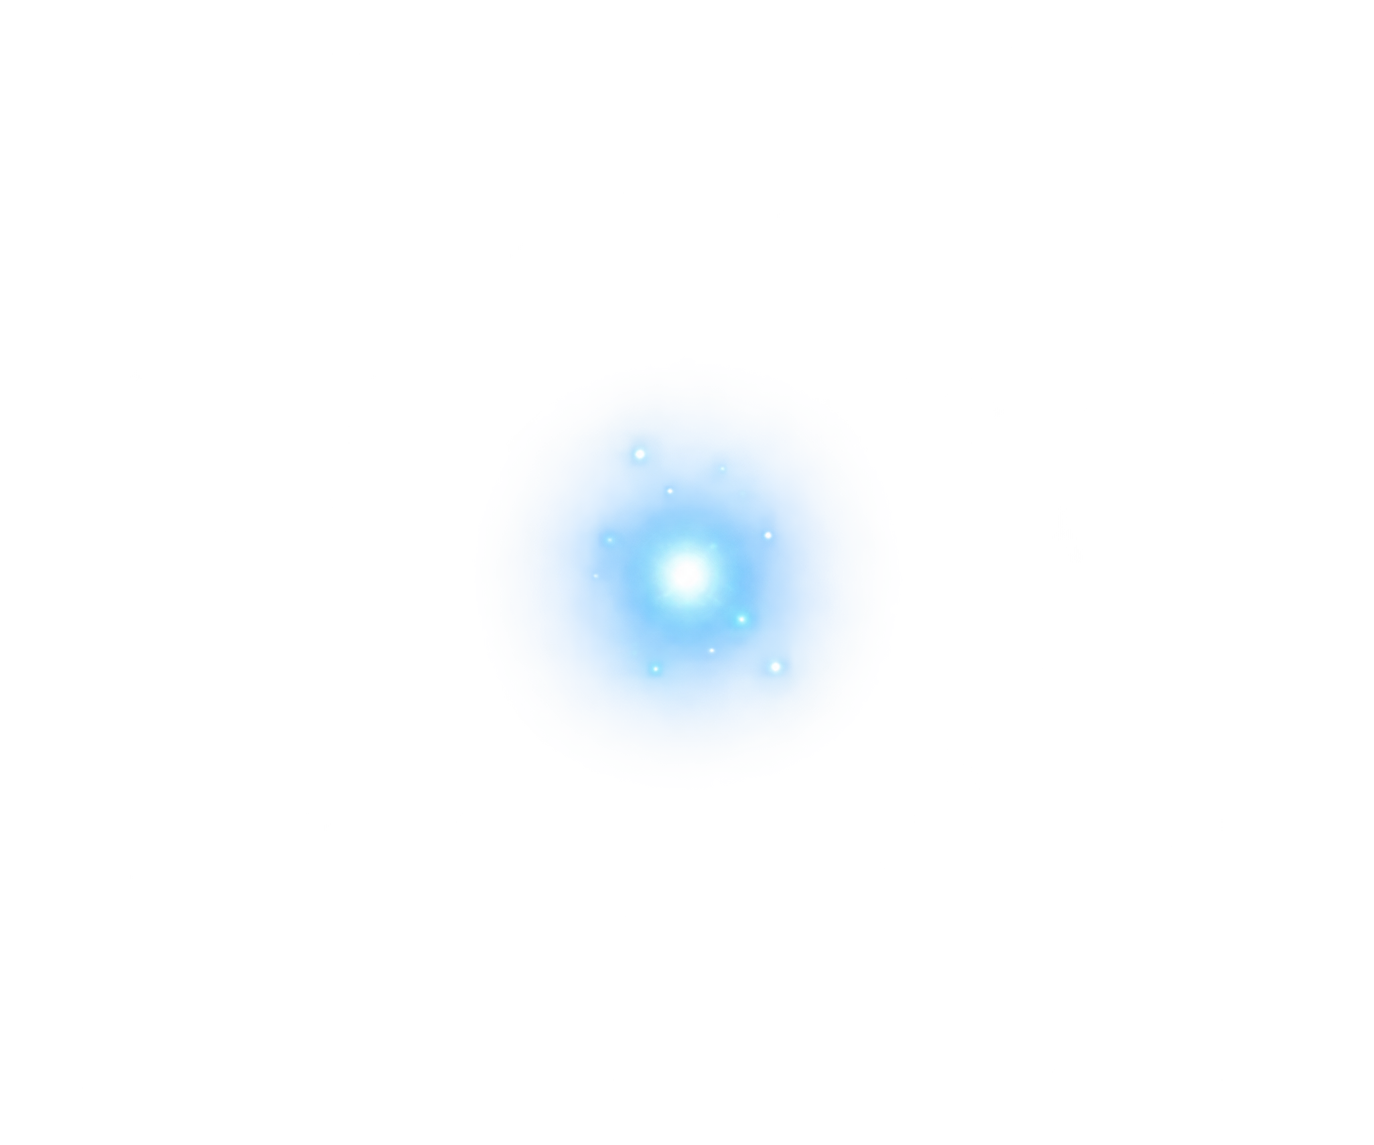
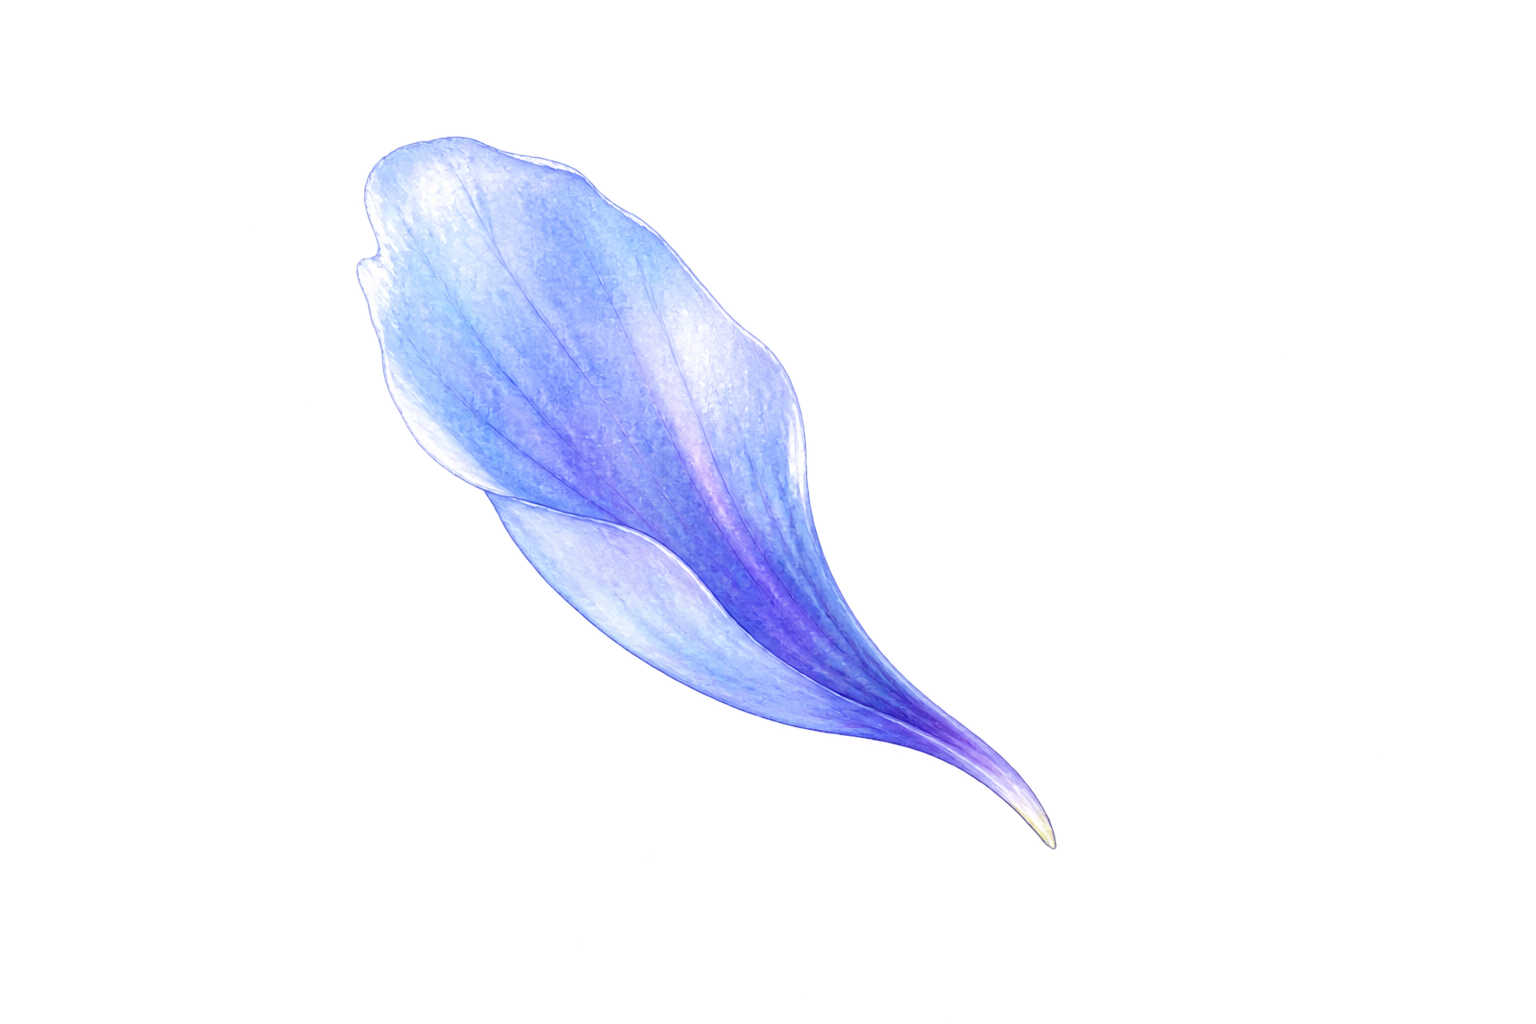
feat: add drifting blue-moon petals

Changed region(s): [[0.214, 0.125, 0.7031, 0.8438]]

diff --git a/src/workers/sakura.worker.ts b/src/workers/sakura.worker.ts
@@ -63,8 +63,12 @@ function getRandom(option: string, cfg: SakuraConfig): unknown {
 				Math.random() * (cfg.speed.vertical.max - cfg.speed.vertical.min);
 			return (_x: number, y: number) => y + random;
 		}
-		case "fnr":
-			return (r: number) => r + cfg.speed.rotation;
+		case "fnr": {
+			const random =
+				cfg.speed.rotation.min +
+				Math.random() * (cfg.speed.rotation.max - cfg.speed.rotation.min);
+			return (r: number) => r + random;
+		}
 		case "fna":
 			return (alpha: number) => alpha - cfg.speed.fadeSpeed * 0.01;
 		default:
@@ -99,6 +103,9 @@ class Sakura {
 	trailFrame = 0;
 	twinklePhase = Math.random() * Math.PI * 2;
 	twinkleSpeed: number;
+	swayPhase = Math.random() * Math.PI * 2;
+	swaySpeed: number;
+	swayAmplitude: number;
 
 	constructor(
 		x: number,
@@ -125,6 +132,12 @@ class Sakura {
 		this.twinkleSpeed =
 			cfg.twinkle.speed.min +
 			Math.random() * (cfg.twinkle.speed.max - cfg.twinkle.speed.min);
+		this.swaySpeed =
+			cfg.sway.speed.min +
+			Math.random() * (cfg.sway.speed.max - cfg.sway.speed.min);
+		this.swayAmplitude =
+			cfg.sway.amplitude.min +
+			Math.random() * (cfg.sway.amplitude.max - cfg.sway.amplitude.min);
 	}
 
 	draw(cxt: OffscreenCanvasRenderingContext2D) {
@@ -163,39 +176,40 @@ class Sakura {
 		scale: number,
 		alpha: number,
 	) {
-		const sourceSize = Math.min(this.img.width, this.img.height);
-		if (sourceSize <= 0 || alpha <= 0) return;
-		const sourceX = (this.img.width - sourceSize) / 2;
-		const sourceY = (this.img.height - sourceSize) / 2;
-		const renderSize = 40 * this.s * scale;
+		if (this.img.width <= 0 || this.img.height <= 0 || alpha <= 0) return;
+		const renderWidth = 64 * this.s * scale;
+		const renderHeight = renderWidth * (this.img.height / this.img.width);
 
 		cxt.save();
 		cxt.globalAlpha = alpha;
+		cxt.translate(x, y);
+		cxt.rotate(this.r);
 		cxt.drawImage(
 			this.img,
-			sourceX,
-			sourceY,
-			sourceSize,
-			sourceSize,
-			x - renderSize / 2,
-			y - renderSize / 2,
-			renderSize,
-			renderSize,
+			-renderWidth / 2,
+			-renderHeight / 2,
+			renderWidth,
+			renderHeight,
 		);
 		cxt.restore();
 	}
 
 	update() {
 		this.captureTrail();
-		this.x = this.fn.x(this.x, this.y);
+		this.swayPhase += this.swaySpeed;
+		const swayOffset = this.config.sway.enable
+			? Math.sin(this.swayPhase) * this.swayAmplitude
+			: 0;
+		this.x = this.fn.x(this.x, this.y) + swayOffset;
 		// 修复原实现笔误:第二参数应为 this.x(原 fuwari 写法)
 		this.y = this.fn.y(this.x, this.y);
+		this.r = this.fn.r(this.r);
 		this.a = this.fn.a(this.a);
 		this.twinklePhase += this.twinkleSpeed;
 		// 越界则重新调整位置
 		if (
-			this.x > windowWidth ||
-			this.x < 0 ||
+			this.x > windowWidth + 80 ||
+			this.x < -80 ||
 			this.y > windowHeight ||
 			this.y < 0 ||
 			this.a <= 0
@@ -224,19 +238,12 @@ class Sakura {
 		this.trail.length = 0;
 		this.trailFrame = 0;
 		this.twinklePhase = Math.random() * Math.PI * 2;
-		if (Math.random() > 0.4) {
-			this.x = getRandom("x", this.config);
-			this.y = 0;
-			this.s = getRandom("s", this.config);
-			this.r = getRandom("r", this.config);
-			this.a = getRandom("a", this.config);
-		} else {
-			this.x = windowWidth;
-			this.y = getRandom("y", this.config);
-			this.s = getRandom("s", this.config);
-			this.r = getRandom("r", this.config);
-			this.a = getRandom("a", this.config);
-		}
+		this.swayPhase = Math.random() * Math.PI * 2;
+		this.s = getRandom("s", this.config);
+		this.x = getRandom("x", this.config);
+		this.y = -64 * this.s;
+		this.r = getRandom("r", this.config);
+		this.a = getRandom("a", this.config);
 	}
 }
 

diff --git a/src/config/effectsConfig.ts b/src/config/effectsConfig.ts
@@ -9,26 +9,26 @@ export const sakuraConfig: SakuraConfig = {
 	// 是否启用樱花特效
 	enable: true,
 
-	// 微光数量
-	sakuraNum: 200,
+	// 苍月草花瓣数量
+	sakuraNum: 26,
 
 	// 樱花越界限制次数，-1为无限循环
 	limitTimes: -1,
 
 	// 樱花尺寸
 	size: {
-		// 微光最小尺寸倍数
-		min: 0.5,
-		// 微光最大尺寸倍数
-		max: 1.1,
+		// 花瓣最小尺寸倍数
+		min: 0.55,
+		// 花瓣最大尺寸倍数
+		max: 1,
 	},
 
 	// 樱花不透明度
 	opacity: {
-		// 微光最小不透明度
-		min: 0.22,
-		// 微光最大不透明度
-		max: 0.6,
+		// 花瓣最小不透明度
+		min: 0.42,
+		// 花瓣最大不透明度
+		max: 0.72,
 	},
 
 	// 樱花移动速度
@@ -36,26 +36,42 @@ export const sakuraConfig: SakuraConfig = {
 		// 水平移动
 		horizontal: {
 			// 水平移动速度最小值
-			min: -0.2,
+			min: -0.18,
 			// 水平移动速度最大值
-			max: -0.01,
+			max: 0.18,
 		},
 		// 垂直移动
 		vertical: {
 			// 垂直移动速度最小值
-			min: -0.2,
+			min: 0.28,
 			// 垂直移动速度最大值
-			max: -0.01,
+			max: 0.62,
 		},
 		// 旋转速度
-		rotation: 0,
+		rotation: {
+			min: -0.008,
+			max: 0.008,
+		},
 		// 消失速度，不应大于最小不透明度
-		fadeSpeed: 0.008,
+		fadeSpeed: 0,
+	},
+
+	// 为每片花瓣分配独立相位，模拟不规则阵风
+	sway: {
+		enable: true,
+		amplitude: {
+			min: 0.18,
+			max: 0.48,
+		},
+		speed: {
+			min: 0.018,
+			max: 0.038,
+		},
 	},
 
 	// 按历史运动轨迹绘制短暂残影，方向会随粒子运动自然变化
 	trail: {
-		enable: true,
+		enable: false,
 		length: 5,
 		sampleEvery: 5,
 		opacity: 0.25,
@@ -64,7 +80,7 @@ export const sakuraConfig: SakuraConfig = {
 
 	// 每个微光使用不同速度轻微闪烁，避免整齐同步
 	twinkle: {
-		enable: true,
+		enable: false,
 		minBrightness: 0.2,
 		speed: {
 			min: 0.03,

diff --git a/src/types/effectsConfig.ts b/src/types/effectsConfig.ts
@@ -19,8 +19,22 @@ export type SakuraConfig = {
 			min: number; // 垂直移动速度最小值
 			max: number; // 垂直移动速度最大值
 		};
-		rotation: number; // 旋转速度
+		rotation: {
+			min: number; // 最小旋转速度，可设为负数表示反向旋转
+			max: number; // 最大旋转速度
+		};
 		fadeSpeed: number; // 消失速度，不应大于最小不透明度
+	};
+	sway: {
+		enable: boolean; // 是否启用随风左右摆动
+		amplitude: {
+			min: number; // 每帧摆动位移的最小值
+			max: number; // 每帧摆动位移的最大值
+		};
+		speed: {
+			min: number; // 摆动相位最小增量
+			max: number; // 摆动相位最大增量
+		};
 	};
 	trail: {
 		enable: boolean; // 是否绘制与运动方向一致的残影拖尾

diff --git a/src/i18n/languages/ru.ts b/src/i18n/languages/ru.ts
@@ -366,7 +366,7 @@ export const ru: Translation = {
 	[Key.wallpaperCarousel]: "Карусель обоев",
 	[Key.wavesAnimation]: "Анимация волн",
 	[Key.gradientTransition]: "Градиентный переход",
-	[Key.sakuraEffect]: "Эффект свечения",
+	[Key.sakuraEffect]: "Лепестки синелунника",
 	[Key.effectsSettings]: "Настройки эффектов",
 	[Key.overlaySettings]: "Настройки прозрачности",
 	[Key.overlayOpacity]: "Прозрачность обоев",

diff --git a/src/i18n/languages/ja.ts b/src/i18n/languages/ja.ts
@@ -363,7 +363,7 @@ export const ja: Translation = {
 	[Key.wallpaperCarousel]: "壁紙カルーセル",
 	[Key.wavesAnimation]: "波アニメーション",
 	[Key.gradientTransition]: "グラデーション遷移",
-	[Key.sakuraEffect]: "微光エフェクト",
+	[Key.sakuraEffect]: "蒼月草の花びら",
 	[Key.effectsSettings]: "エフェクト設定",
 	[Key.overlaySettings]: "透明設定",
 	[Key.overlayOpacity]: "壁紙の透明度",

diff --git a/src/i18n/languages/ko.ts b/src/i18n/languages/ko.ts
@@ -363,7 +363,7 @@ export const ko: Translation = {
 	[Key.wallpaperCarousel]: "배경화면 캐러셀",
 	[Key.wavesAnimation]: "파도 애니메이션",
 	[Key.gradientTransition]: "그라디언트 전환",
-	[Key.sakuraEffect]: "미광 효과",
+	[Key.sakuraEffect]: "푸른달초 꽃잎",
 	[Key.effectsSettings]: "효과 설정",
 	[Key.overlaySettings]: "투명도 설정",
 	[Key.overlayOpacity]: "배경화면 불투명도",

diff --git a/src/i18n/languages/en.ts b/src/i18n/languages/en.ts
@@ -365,7 +365,7 @@ export const en: Translation = {
 	[Key.wallpaperCarousel]: "Wallpaper Carousel",
 	[Key.wavesAnimation]: "Waves Animation",
 	[Key.gradientTransition]: "Gradient Transition",
-	[Key.sakuraEffect]: "Glow Effect",
+	[Key.sakuraEffect]: "Blue-Moon Petals",
 	[Key.effectsSettings]: "Effects Settings",
 	[Key.overlaySettings]: "Transparency Settings",
 	[Key.overlayOpacity]: "Wallpaper Opacity",

diff --git a/src/i18n/languages/zh_CN.ts b/src/i18n/languages/zh_CN.ts
@@ -356,7 +356,7 @@ export const zh_CN: Translation = {
 	[Key.wallpaperCarousel]: "壁纸轮播",
 	[Key.wavesAnimation]: "水波纹动画",
 	[Key.gradientTransition]: "渐变过渡",
-	[Key.sakuraEffect]: "微光特效",
+	[Key.sakuraEffect]: "苍月草花瓣",
 	[Key.effectsSettings]: "特效设置",
 	[Key.overlaySettings]: "透明设置",
 	[Key.overlayOpacity]: "壁纸透明度",

diff --git a/src/i18n/languages/zh_TW.ts b/src/i18n/languages/zh_TW.ts
@@ -358,7 +358,7 @@ export const zh_TW: Translation = {
 	[Key.wallpaperCarousel]: "壁紙輪播",
 	[Key.wavesAnimation]: "水波紋動畫",
 	[Key.gradientTransition]: "漸變過渡",
-	[Key.sakuraEffect]: "微光特效",
+	[Key.sakuraEffect]: "蒼月草花瓣",
 	[Key.effectsSettings]: "特效設定",
 	[Key.overlaySettings]: "透明設定",
 	[Key.overlayOpacity]: "桌布透明度",
